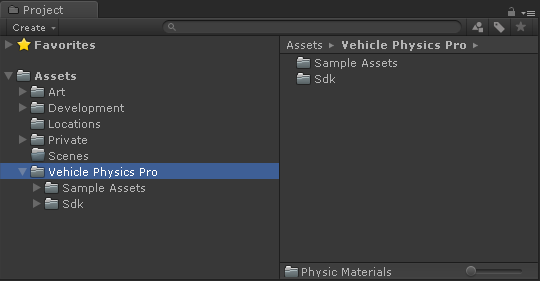
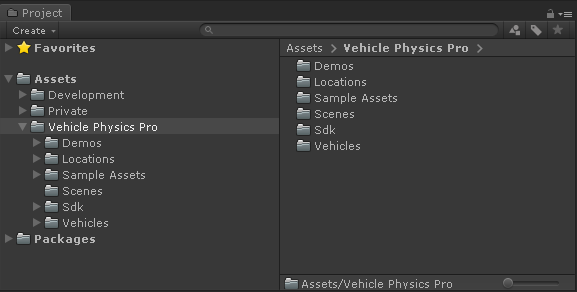
Updated changelog and integration with existing projects

diff --git a/docs/user-guide/setting-up-vpp.md b/docs/user-guide/setting-up-vpp.md
@@ -119,22 +119,39 @@ Fetch the most recent updates to the example project.
 
 ## Using VPP in existing projects
 
-Simply include the VPP repositories as folders or GIT submodules under the Assets folder in your
-Unity project. See the [Repository Reference](#repository-reference) below for GIT URLs and
-requirements.
+The simplest method is to copy or export the folder **Vehicle Physics Pro** from the VPP project to
+the existing project.
 
-#### Professional Edition
+Alternatively you may copy the minimum required folders to run VPP vehicles and use the resources in
+the existing project only. See the [Repository Reference](#repository-reference) below for the VPP
+folder list and their dependencies.
 
-The repository **Vehicle Physics Pro SDK** contains everything needed to run VPP vehicles.
-Additionally, you may include _Vehicle Physics Sample Assets_ (`master-sdk` branch) for quick
-prototyping.
+!!! Info "Project Settings"
+	Note that some settings such as physics, input and layers won't be copied (this would override
+	the settings in the existing project). While VPP itself doesn't depend on any specific settings,
+	the vehicles and demo scenes provided with it may not work correctly within the new project.
 
-#### Enterprise Edition
+	For example, the keyboard input [requires specific Input settings](/components/vehicle-input/)
+	for some features to work correctly.
 
-Enterprise Edition requires **Common Tools Core** and **Vehicle Physics Core** to run VPP vehicles.
-Additionally, you may include _Vehicle Physics Sample Assets_ for quick prototyping. The repository
-_Vehicle Physics Specialized Assets_ includes utility scripts to run specialized vehicles such as
-excavators, caterpillars, dumpers, etc.
+#### Cloning VPP repositories into existing projects
+
+This is a convenient way to keep VPP updated within existing projects. The VPP repositories may be
+cloned as independent folders within the project, or as GIT submodules. See the [Repository Reference](#repository-reference)
+below for GIT URLs and dependencies.
+
+Professional Edition
+:	The repository **Vehicle Physics Pro SDK** contains everything needed to run VPP vehicles.
+
+	Additionally, you may include _Vehicle Physics Sample Assets_ (`master-sdk` branch) for quick
+	prototyping.
+
+Enterprise Edition
+:	Enterprise Edition requires **Common Tools Core** and **Vehicle Physics Core** to run VPP vehicles.
+
+	Additionally, you may include _Vehicle Physics Sample Assets_ for quick prototyping. The repository
+	_Vehicle Physics Specialized Assets_ includes utility scripts to run specialized vehicles such as
+	electric cars, excavators, dumpers, etc.
 
 ## Repository reference
 
@@ -142,20 +159,20 @@ excavators, caterpillars, dumpers, etc.
 
 ![VPP Professional Edition repositories](/img/user-guide/vpp-repository-professional.png)
 
-Repository      |  URLs  | Description
-----------------|--------|----------------
-**[Vehicle&nbsp;Physics&nbsp;Pro&nbsp;-&nbsp;Professional](http://projects.edy.es/trac/edy_vehicle-physics-pro-professional)** | [GIT&#8209;SSH](ssh://git@projects.edy.es/edy/vehicle-physics-pro-professional.git)<br>[ZIP](http://projects.edy.es/git/edy/vehicle-physics-pro-professional.git/shortlog/refs/heads/master?js=1) | Example project for Unity 3D with development assets and example scenes.<br><br>**_Note:_** The ZIP snapshot doesn't include the submodules. Downloading as ZIP requires the submodules below to be downloaded separately and placed in the corresponding folders under `Assets/Vehicle Physics Pro`.
-[Vehicle Physics Pro SDK](http://projects.edy.es/trac/edy_vehicle-physics-pro-sdk) | [GIT&#8209;SSH](ssh://git@projects.edy.es/edy/vehicle-physics-pro-sdk.git)<br>[GIT&#8209;HTTP](http://projects.edy.es/git/edy/vehicle-physics-pro-sdk.git)<br>[ZIP](http://projects.edy.es/git/edy/vehicle-physics-pro-sdk.git/shortlog/refs/heads/master?js=1) | Submodule with the Vehicle Physics Pro SDK files.<br>This repo contains everything needed to run VPP in existing projects. |
-[Vehicle Physics Sample Assets](http://projects.edy.es/trac/edy_vehicle-physics-sample-assets) | [GIT&#8209;SSH](ssh://git@projects.edy.es/edy/vehicle-physics-sample-assets.git)<br>[GIT&#8209;HTTP](http://projects.edy.es/git/edy/vehicle-physics-sample-assets.git)<br>[ZIP](http://projects.edy.es/git/edy/vehicle-physics-sample-assets.git/shortlog/refs/heads/master-sdk?js=1) | Submodule with a set of assets and resources for prototyping and tests.<br>Requires Vehicle Physics Pro SDK.<br><br>**_Important:_** check-out or download the `master-sdk` branch instead of master for this repo to work with the VPP SDK files. |
+Repository      |  URLs  | Folder | Description
+----------------|--------|--------|--------------
+**[Vehicle&nbsp;Physics&nbsp;Pro&nbsp;-&nbsp;Professional](http://projects.edy.es/trac/edy_vehicle-physics-pro-professional)** | [GIT&#8209;SSH](ssh://git@projects.edy.es/edy/vehicle-physics-pro-professional.git)<br>[ZIP](http://projects.edy.es/git/edy/vehicle-physics-pro-professional.git/shortlog/refs/heads/master?js=1) | _(Unity Project)_ | Example project for Unity 3D with development assets, demos, vehicles and examples.<br><br>**_Note:_** The ZIP snapshot doesn't include the submodules. Downloading as ZIP requires the submodules below to be downloaded separately and placed in the corresponding folders under `Assets/Vehicle Physics Pro`.
+[Vehicle Physics Pro SDK](http://projects.edy.es/trac/edy_vehicle-physics-pro-sdk) | [GIT&#8209;SSH](ssh://git@projects.edy.es/edy/vehicle-physics-pro-sdk.git)<br>[GIT&#8209;HTTP](http://projects.edy.es/git/edy/vehicle-physics-pro-sdk.git)<br>[ZIP](http://projects.edy.es/git/edy/vehicle-physics-pro-sdk.git/shortlog/refs/heads/master?js=1) | `VehiclePhysicsPro/Sdk` | Submodule with the Vehicle Physics Pro SDK files.<br>This repo contains everything needed to run VPP in existing projects. |
+[Vehicle Physics Sample Assets](http://projects.edy.es/trac/edy_vehicle-physics-sample-assets) | [GIT&#8209;SSH](ssh://git@projects.edy.es/edy/vehicle-physics-sample-assets.git)<br>[GIT&#8209;HTTP](http://projects.edy.es/git/edy/vehicle-physics-sample-assets.git)<br>[ZIP](http://projects.edy.es/git/edy/vehicle-physics-sample-assets.git/shortlog/refs/heads/master-sdk?js=1) | `Vehicle Physics Pro/Sample Assets` | Submodule with a set of assets and resources for prototyping and tests.<br>Requires Vehicle Physics Pro SDK.<br><br>**_Important:_** check-out or download the `master-sdk` branch instead of master for this repo to work with the VPP SDK files. |
 
 ### Enterprise Edition
 
 ![VPP Enterprise Edition repositories](/img/user-guide/vpp-repository-enterprise.png)
 
-Repository      |  URLs  | Description
-----------------|--------|----------------
-**[Vehicle&nbsp;Physics&nbsp;Pro&nbsp;-&nbsp;Enterprise](http://projects.edy.es/trac/edy_vehicle-physics-pro)** | [GIT&#8209;SSH](ssh://git@projects.edy.es/edy/vehicle-physics-pro.git)<br>[ZIP](http://projects.edy.es/git/edy/vehicle-physics-pro.git/shortlog/refs/heads/master?js=1) | Example project for Unity 3D with source code, examples, development resources, etc.<br><br>**_Note:_** The ZIP snapshot doesn't include the submodules. Downloading as ZIP requires the submodules below to be downloaded separately and placed in the corresponding folders under `Assets/Core`.
-[Common Tools Core](http://projects.edy.es/trac/edy_common-tools-core) | [GIT&#8209;SSH](ssh://git@projects.edy.es/edy/common-tools-core.git)<br>[GIT&#8209;HTTP](http://projects.edy.es/git/edy/common-tools-core.git)<br>[ZIP](http://projects.edy.es/git/edy/common-tools-core.git/shortlog/refs/heads/master?js=1) | Submodule with common tools and utility scripts.
-[Vehicle Physics Core](http://projects.edy.es/trac/edy_vehicle-physics-core) | [GIT&#8209;SSH](ssh://git@projects.edy.es/edy/vehicle-physics-core.git)<br>[GIT&#8209;HTTP](http://projects.edy.es/git/edy/vehicle-physics-core.git)<br>[ZIP](http://projects.edy.es/git/edy/vehicle-physics-core.git/shortlog/refs/heads/master?js=1) | Submodule with the vehicle physics simulation scripts and components.<br>Requires Common Tools Core.<br>This repo together with Common Tools Core is everything needed to run VPP in existing projects.
-[Vehicle Physics Sample Assets](http://projects.edy.es/trac/edy_vehicle-physics-sample-assets) | [GIT&#8209;SSH](ssh://git@projects.edy.es/edy/vehicle-physics-sample-assets.git)<br>[GIT&#8209;HTTP](http://projects.edy.es/git/edy/vehicle-physics-sample-assets.git)<br>[ZIP](http://projects.edy.es/git/edy/vehicle-physics-sample-assets.git/shortlog/refs/heads/master?js=1) | Submodule with a set of assets and resources for prototyping and tests.<br>Requires Common Tools Core and Vehicle Physics Core.
-[Vehicle&nbsp;Physics&nbsp;Specialized&nbsp;Assets](http://projects.edy.es/trac/edy_vehicle-physics-specialized-assets) | [GIT&#8209;SSH](ssh://git@projects.edy.es/edy/vehicle-physics-specialized-assets.git)<br>[GIT&#8209;HTTP](http://projects.edy.es/git/edy/vehicle-physics-specialized-assets.git)<br>[ZIP](http://projects.edy.es/git/edy/vehicle-physics-specialized-assets.git/shortlog/refs/heads/master?js=1) | Submodule with specialized vehicle support (excavators, loaders, caterpillars, etc).<br>Requires Common Tools Core and Vehicle Physics Core.
+Repository      |  URLs  | Folder |Description
+----------------|--------|--------|-------------
+**[Vehicle&nbsp;Physics&nbsp;Pro&nbsp;-&nbsp;Enterprise](http://projects.edy.es/trac/edy_vehicle-physics-pro)** | [GIT&#8209;SSH](ssh://git@projects.edy.es/edy/vehicle-physics-pro.git)<br>[ZIP](http://projects.edy.es/git/edy/vehicle-physics-pro.git/shortlog/refs/heads/master?js=1) | _(Unity Project)_ | Example project for Unity 3D with source code, demos, vehicles, examples, etc.<br><br>**_Note:_** The ZIP snapshot doesn't include the submodules. Downloading as ZIP requires the submodules below to be downloaded separately and placed in the corresponding folders under `Assets/Core`.
+[Common Tools Core](http://projects.edy.es/trac/edy_common-tools-core) | [GIT&#8209;SSH](ssh://git@projects.edy.es/edy/common-tools-core.git)<br>[GIT&#8209;HTTP](http://projects.edy.es/git/edy/common-tools-core.git)<br>[ZIP](http://projects.edy.es/git/edy/common-tools-core.git/shortlog/refs/heads/master?js=1) | `Core/Common Tools Core` | Submodule with common tools and utility scripts.
+[Vehicle Physics Core](http://projects.edy.es/trac/edy_vehicle-physics-core) | [GIT&#8209;SSH](ssh://git@projects.edy.es/edy/vehicle-physics-core.git)<br>[GIT&#8209;HTTP](http://projects.edy.es/git/edy/vehicle-physics-core.git)<br>[ZIP](http://projects.edy.es/git/edy/vehicle-physics-core.git/shortlog/refs/heads/master?js=1) | `Core/Vehicle Physics Core` | Submodule with the vehicle physics simulation scripts and components.<br>Requires Common Tools Core.<br>This repo together with Common Tools Core is everything needed to run VPP in existing projects.
+[Vehicle Physics Sample Assets](http://projects.edy.es/trac/edy_vehicle-physics-sample-assets) | [GIT&#8209;SSH](ssh://git@projects.edy.es/edy/vehicle-physics-sample-assets.git)<br>[GIT&#8209;HTTP](http://projects.edy.es/git/edy/vehicle-physics-sample-assets.git)<br>[ZIP](http://projects.edy.es/git/edy/vehicle-physics-sample-assets.git/shortlog/refs/heads/master?js=1) | `Core/Vehicle Physics Sample Assets` | Submodule with a set of assets and resources for prototyping and tests.<br>Requires Common Tools Core and Vehicle Physics Core.
+[Vehicle&nbsp;Physics&nbsp;Specialized&nbsp;Assets](http://projects.edy.es/trac/edy_vehicle-physics-specialized-assets) | [GIT&#8209;SSH](ssh://git@projects.edy.es/edy/vehicle-physics-specialized-assets.git)<br>[GIT&#8209;HTTP](http://projects.edy.es/git/edy/vehicle-physics-specialized-assets.git)<br>[ZIP](http://projects.edy.es/git/edy/vehicle-physics-specialized-assets.git/shortlog/refs/heads/master?js=1) | `Core/Vehicle Physics Specialized Assets` | Submodule with specialized vehicle support (electric, excavators, caterpillars, etc).<br>Requires Common Tools Core and Vehicle Physics Core.

diff --git a/docs/about/changelog.md b/docs/about/changelog.md
@@ -1,9 +1,9 @@
 # Changelog
 
-This list is a brief summary of the most significant additions to Vehicle Physics Pro along time.
-It doesn't include minor changes or fixes.
+This list is a brief summary of the most significant additions to Vehicle Physics Pro over time. It
+doesn't include minor changes or fixes.
 
-Licensees may access the full development details via GIT revision logs (VPP subscription required):
+Full development details are available via GIT revision logs ([VPP subscription](/about/licensing) required):
 
 - [Vehicle Physics Core (Source Code version)](http://projects.edy.es/trac/edy_vehicle-physics-core/log/)
 - [Vehicle Physics Core (SDK version)](http://projects.edy.es/trac/edy_vehicle-physics-pro-sdk/log/)
@@ -11,6 +11,22 @@ Licensees may access the full development details via GIT revision logs (VPP sub
 - [Sample Assets](http://projects.edy.es/trac/edy_vehicle-physics-sample-assets/log/)
 
 <hr>
+
+#### November 2019 - SDK V7
+
+- New component **VPVehicleToolkit** providing an useful high-level interface to the most commonly used vehicle features.
+- New support for the **Fanatec Podium Wheel Base DD2** steering wheel.
+- Added support 3D vehicle models oriented in any axis, not necessarily "front +Z".
+- New **camera movement** option in first person (driver) view.
+- Splines may now be imported from **CSV** files.
+
+#### October 2019
+
+- New **electric vehicle controller** providing precise simulation of electric motors with regenerative braking. [Tweet](https://twitter.com/VehiclePhysics/status/1196435439588118529)
+- Added support **CXC** motion cueing systems. [Info on CXC](https://www.cxcsimulations.com)
+- New **automatic spring and damper setup** via context menu option in the VPWheelCollider component.
+- New **example scripts** for writing custom input logic, custom wheel effects and custom handling setup.
+- New components to precisely configure timing and inertias in the excavator controller.
 
 #### August 2019 - SDK V6
 

diff --git a/docs/about/licensing.md b/docs/about/licensing.md
@@ -25,8 +25,8 @@ Full source code included																				|	|	| &fa-check; |
 Advanced simulation features: multi-body vehicles, solid and liquid cargo components					|	|	| &fa-check; |
 Advanced suspension features: damper bump & rebound, dynamic suspension, bump stop					|	|	| &fa-check; |
 Specialized vehicle support: motorbike, caterpillar, mining, excavators, hydraulic actuators. [Showcase](/about/showcase/)	|	|	| &fa-check; |
-Advanced vehicle controllers: two-wheeled, bulldozer, [diesel-electric](https://twitter.com/VehiclePhysics/status/1135951323629854721), tracked, hydraulic-tracked	|	|	| &fa-check; |
-Framework for autonomous vehicles: self-drive, automated tests, path follow, export data to CSV			|	|	| &fa-check; |
+Advanced vehicle controllers: electric, two-wheeled, bulldozer, [diesel-electric](https://twitter.com/VehiclePhysics/status/1135951323629854721), tracked, hydraulic-tracked	|	|	| &fa-check; |
+Framework for AI and autonomous vehicles: self-drive, automated tests, path follow, export data to CSV	|	|	| &fa-check; |
 Engine configuration tool to fit the engine settings to real data _(Experimental)_						|	|	| &fa-check; |
 Motion platform support: [D-Box](http://www.d-box.com/training-and-simulation/), [Simtools 2.0](https://www.xsimulator.net/community/threads/how-to-write-a-game-plugin-for-simtools-2-0-api-documentation.9107/), [CXC](https://www.cxcsimulations.com)	|	|	| &fa-check; |
 Support by Skype / Discord																				|	|	| &fa-check; |
